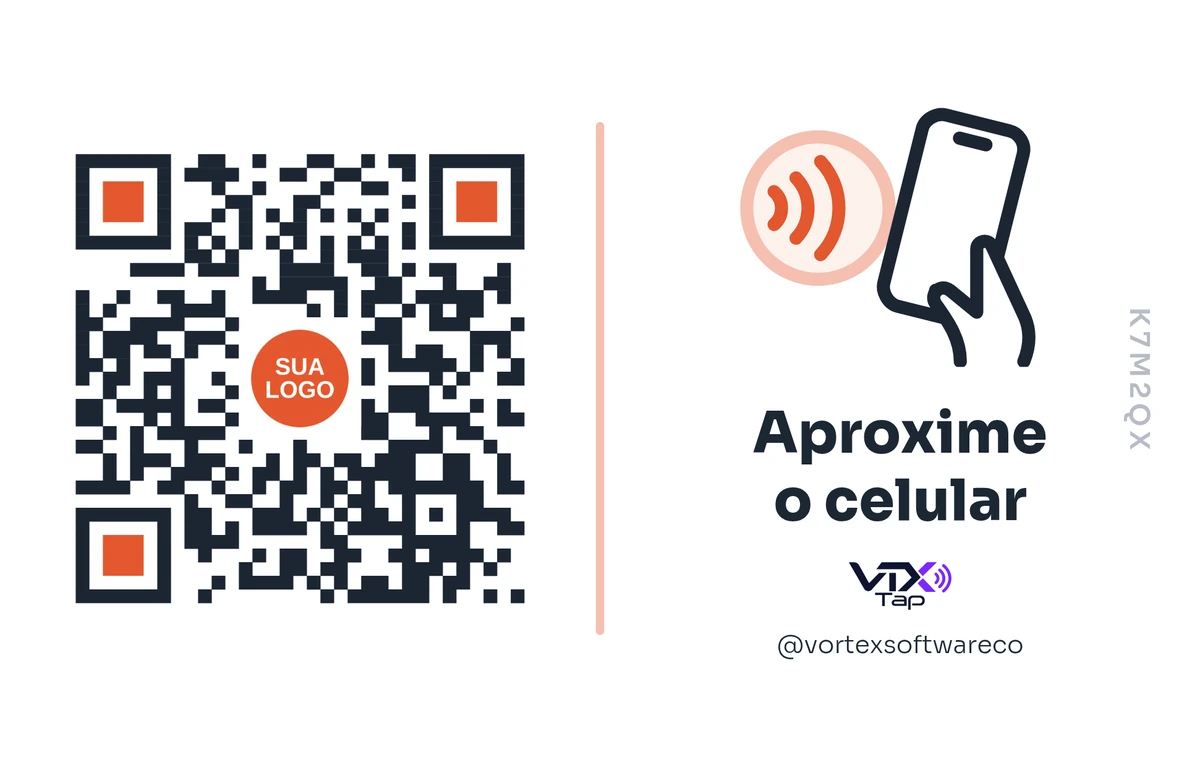
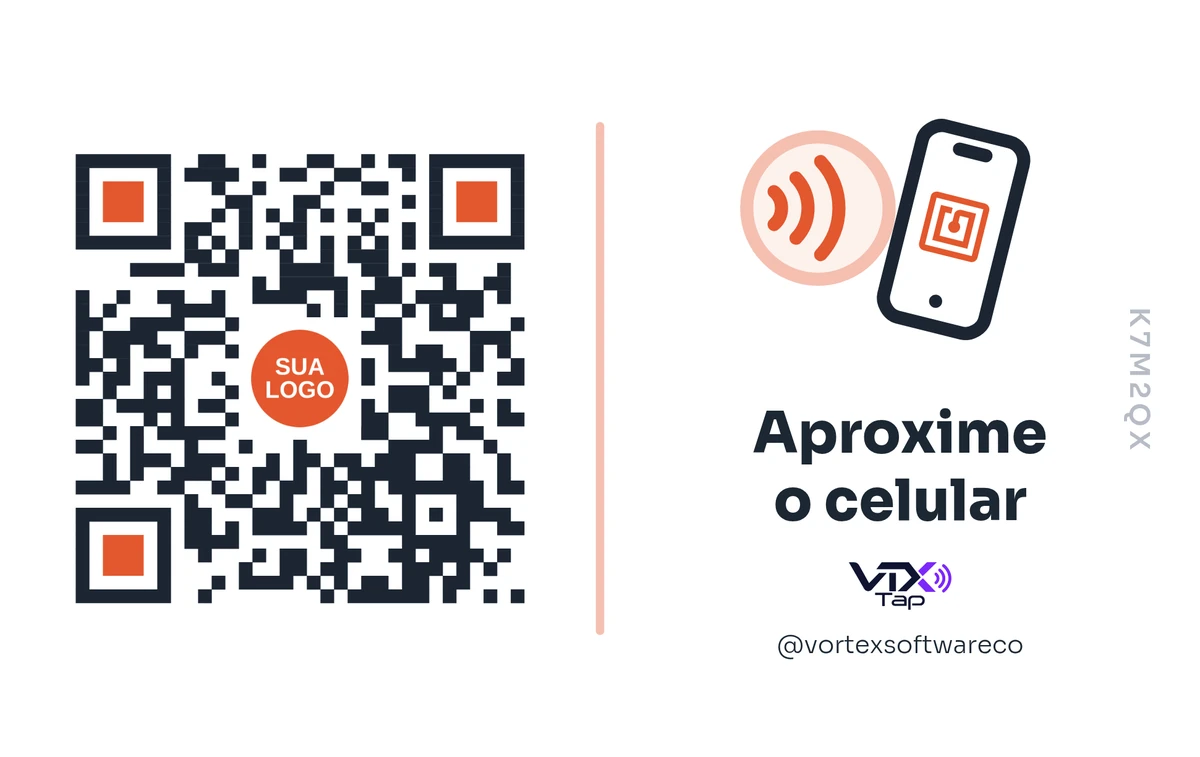
Plaquinha: sem a mão; símbolo de NFC na tela do celular inclinado
Também: fotos certas das long necks (Corona, Heineken, Stella) no cardápio do
Ciência, que já está gravado em produção.

Claude-Session: https://claude.ai/code/session_01SquUYhy9CJfd3RStheVeY3

Changed region(s): [[0.7092, 0.1215, 0.8633, 0.4861], [0.7092, 0.3342, 0.74, 0.3646]]

diff --git a/central/placa.js b/central/placa.js
@@ -52,14 +52,16 @@
   const LOGO_VTX = '/admin/icons/icon-512.png';          // marca quadrada (miolo do QR)
   const LOGO_VTX_TEXTO = '/assets/img/vtx-tap-escuro.png'; // logo com texto (ao lado do @)
 
-  /* Ícone de NFC: círculo com as ondas e o celular chegando perto. */
+  /* Ícone de NFC: círculo com as ondas e o celular chegando perto, com o símbolo de NFC na tela. */
+  // Símbolo de NFC (ícone "nfc" do Material Icons, licença Apache 2.0), 24 × 24.
+  const NFC_SIMBOLO = 'M20 2H4c-1.1 0-2 .9-2 2v16c0 1.1.9 2 2 2h16c1.1 0 2-.9 2-2V4c0-1.1-.9-2-2-2zm0 18H4V4h16v16zM18 6h-5c-1.1 0-2 .9-2 2v2.28c-.6.35-1 .98-1 1.72 0 1.1.9 2 2 2s2-.9 2-2c0-.74-.4-1.38-1-1.72V8h3v8H8V8h2V6H6v12h12V6z';
   const NFC = (pal) => ({
     w: 64, h: 48,
     svg: `<g fill="none" stroke="${TINTA}" stroke-width="2.4" stroke-linecap="round" stroke-linejoin="round">
       <circle cx="17" cy="19" r="13" stroke="${pal.claro}" fill="${pal.fundo}"/>
       <path d="M13 13.5a8 8 0 0 1 0 11" stroke="${pal.forte}"/><path d="M17.5 10.5a12.5 12.5 0 0 1 0 17" stroke="${pal.forte}"/><path d="M9 16a4 4 0 0 1 0 6" stroke="${pal.forte}"/>
-      <g transform="rotate(14 42 22)"><rect x="32" y="3" width="19" height="36" rx="3.5" fill="#fff"/><path d="M39 6.5h5"/><circle cx="41.5" cy="34.5" r="1.2" fill="${TINTA}" stroke="none"/></g>
-      <path d="M43 47c0-4-2-7-4.5-10.5-1.2-1.8.8-3.8 2.6-2.5L46 38V26.5c0-1.6 2.2-2 2.8-.5l6 13c1 2.4 1 5-.2 8" fill="#fff"/>
+      <g transform="rotate(14 42 24)"><rect x="32" y="5" width="19" height="36" rx="3.5" fill="#fff"/><path d="M39 8.5h5"/><circle cx="41.5" cy="36.5" r="1.2" fill="${TINTA}" stroke="none"/>
+        <g transform="translate(34.9 15.9) scale(0.55)" fill="${pal.forte}" stroke="none"><path d="${NFC_SIMBOLO}"/></g></g>
     </g>`,
   });
   const NFC_W = 64;
